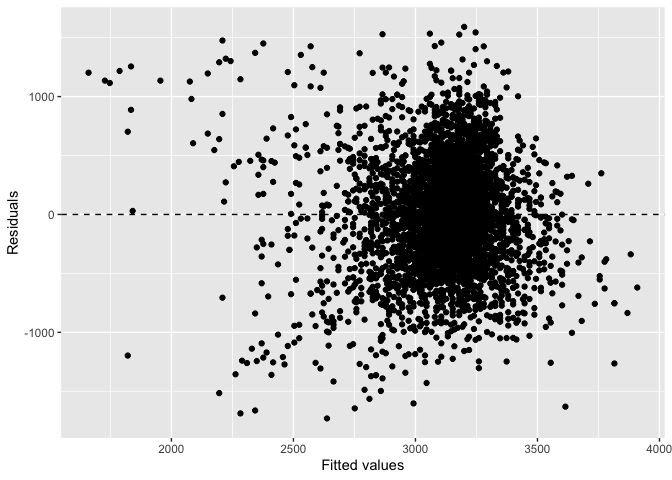
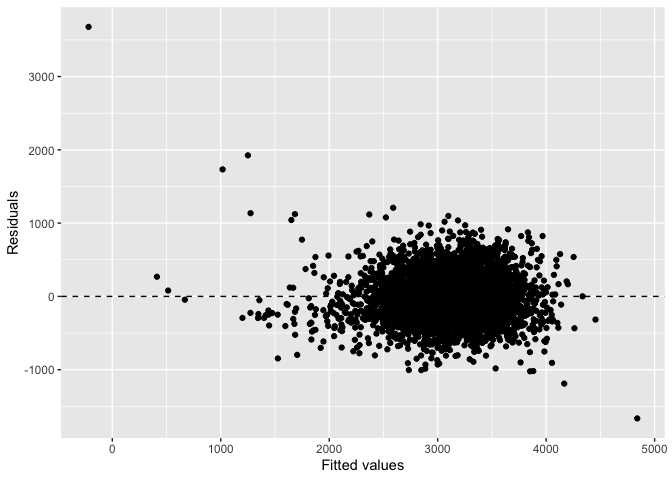
added comments for the homework

diff --git a/p8105_hw6_ys3765.md b/p8105_hw6_ys3765.md
@@ -112,6 +112,28 @@ ci_log_beta_product
 | 2.5%  | -8.981559 |
 | 97.5% | -4.601673 |
 
+As we can see from the first density plot, the r squared values are
+almost normally distributed. As we moved to the second plot, the
+distribution becomes left skewed. As we moved to the log transformation,
+a lot of null values produced. Approximately values are left to be
+valid. For the r squared value, the 95 percent confidence interval is
+between
+
+|       |         x |
+|:------|----------:|
+| 2.5%  | 0.8885495 |
+| 97.5% | 0.9406812 |
+
+. And for the log beta prodects value, the 95 percent confidence
+interval is between
+
+|       |         x |
+|:------|----------:|
+| 2.5%  | -8.981559 |
+| 97.5% | -4.601673 |
+
+.
+
 # Problem 3
 
 ``` r
@@ -182,28 +204,38 @@ summary(bw)
 categorical_vars <- c("babysex", "frace", "malform", "mrace")
 bw[categorical_vars] <- lapply(bw[categorical_vars], factor)
 
-initial_model <- lm(bwt ~ gaweeks, data = bw)
+initial_model <- lm(bwt ~babysex + blength + delwt + gaweeks + mheight + mrace + ppwt +smoken, data = bw)
 summary(initial_model)
 ```
 
     ## 
     ## Call:
-    ## lm(formula = bwt ~ gaweeks, data = bw)
+    ## lm(formula = bwt ~ babysex + blength + delwt + gaweeks + mheight + 
+    ##     mrace + ppwt + smoken, data = bw)
     ## 
     ## Residuals:
-    ##      Min       1Q   Median       3Q      Max 
-    ## -1730.52  -292.85    -0.78   303.47  1591.36 
+    ##     Min      1Q  Median      3Q     Max 
+    ## -1665.1  -208.7    -5.3   202.1  3677.7 
     ## 
     ## Coefficients:
-    ##             Estimate Std. Error t value Pr(>|t|)    
-    ## (Intercept)  476.003     88.809    5.36 8.76e-08 ***
-    ## gaweeks       66.920      2.245   29.80  < 2e-16 ***
+    ##               Estimate Std. Error t value Pr(>|t|)    
+    ## (Intercept) -4200.3363   148.1879 -28.345  < 2e-16 ***
+    ## babysex2      -20.6095     9.6534  -2.135 0.032821 *  
+    ## blength       115.0705     1.9846  57.981  < 2e-16 ***
+    ## delwt           5.3097     0.4514  11.762  < 2e-16 ***
+    ## gaweeks        22.8241     1.6481  13.849  < 2e-16 ***
+    ## mheight         6.8940     2.0565   3.352 0.000808 ***
+    ## mrace2       -183.3331    10.6002 -17.295  < 2e-16 ***
+    ## mrace3        -72.9632    48.8778  -1.493 0.135571    
+    ## mrace4        -82.6732    22.0706  -3.746 0.000182 ***
+    ## ppwt           -3.2243     0.4934  -6.535  7.1e-11 ***
+    ## smoken         -6.3850     0.6751  -9.457  < 2e-16 ***
     ## ---
     ## Signif. codes:  0 '***' 0.001 '**' 0.01 '*' 0.05 '.' 0.1 ' ' 1
     ## 
-    ## Residual standard error: 466.7 on 4340 degrees of freedom
-    ## Multiple R-squared:  0.1699, Adjusted R-squared:  0.1697 
-    ## F-statistic: 888.3 on 1 and 4340 DF,  p-value: < 2.2e-16
+    ## Residual standard error: 314.8 on 4331 degrees of freedom
+    ## Multiple R-squared:  0.623,  Adjusted R-squared:  0.6221 
+    ## F-statistic: 715.7 on 10 and 4331 DF,  p-value: < 2.2e-16
 
 ``` r
 birth_data <- bw %>% 
@@ -222,6 +254,12 @@ ggplot(birth_data, aes(x = pred, y = resid)) +
 model_length_ga <- lm(bwt ~ blength + gaweeks, data = bw)
 model_head_len_sex_interactions <- lm(bwt ~ bhead * blength * babysex, data = bw)
 ```
+
+My proposed model is to use birthweight to model with “babysex +
+blength + delwt + gaweeks + mheight + mrace + ppwt +smoken” all these
+variables as our basic model for the later use to compare with the later
+two others. Then we add prediction and add residuals into the model,
+here is the plot for the fitted values and residuals.
 
 ``` r
 birth_data |> 
@@ -257,7 +295,7 @@ cv_df =
 cv_df = 
   cv_df |> 
   mutate(
-    initial_model  = map(train, \(df) lm(bwt ~ gaweeks, data = birth_data)),
+    initial_model  = map(train, \(df) lm(bwt ~ babysex + blength + delwt + gaweeks + mheight + mrace + ppwt +smoken, data = birth_data)),
     model_length_ga     = map(train, \(df) lm(bwt ~ blength + gaweeks, data = birth_data)),
     model_head_len_sex_interactions  = map(train, \(df)  lm(bwt ~ bhead * blength * babysex, data = birth_data))) |> 
   mutate(
